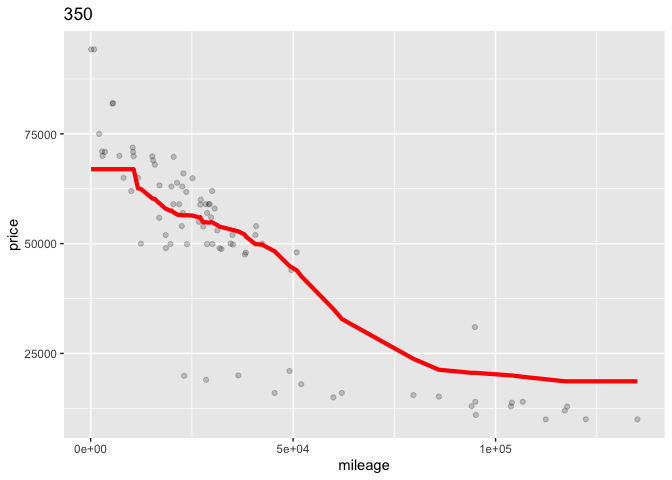
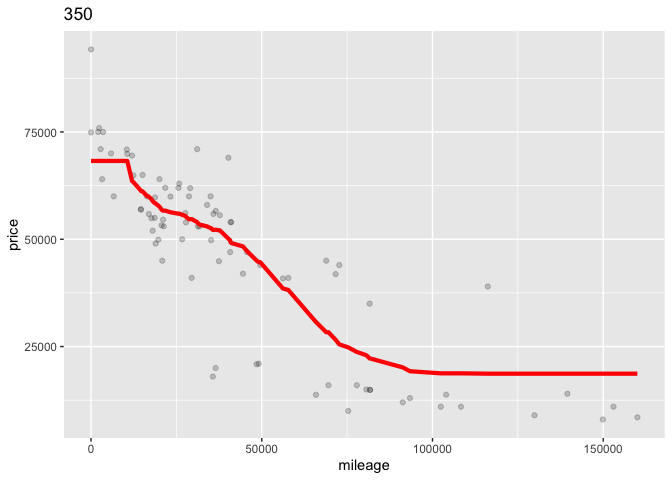
Add files via upload

diff --git a/Assignment-1.md b/Assignment-1.md
@@ -3,14 +3,10 @@
 calculate the average departure delay time over 2008 and make a plot to
 show that
 
-    plot(average_departure_delay_time_over_2008)
-
 ![](Assignment-1_files/figure-markdown_strict/plot%20average%20departure%20delay%20time%20over%202008-1.png)
 
 we can see the result that in most time, the delay time fluctulate
 between 0 and 20, and around Oct, the delay time is relatively small.
-
-    plot(delay_day)
 
 ![](Assignment-1_files/figure-markdown_strict/delay%20day-1.png)
 
@@ -21,8 +17,6 @@ and 06
 so we give a suggestion: try to catch earlier flight rather than later
 flight
 
-    plot(delay_affected_airline)
-
 ![](Assignment-1_files/figure-markdown_strict/delay%20time%20affected%20by%20airline-1.png)
 
 from that plot we can see that overall, US airline has the minimum delay
@@ -30,8 +24,6 @@ time, but we lack their data in some months, maybe they doesn’t arrange
 flightline during these months
 
 ## question 2
-
-    the_top_10_most_popular_songs
 
     ## # A tibble: 10 × 3
     ## # Groups:   performer [10]
@@ -55,8 +47,6 @@ partB
 we first excludes the years 1958 and 2021 then we can counts the number
 of times that a given song appears on the Top 100 in a given year
 
-    number_of_times_that_a_given_song
-
     ## # A tibble: 34,467 × 3
     ## # Groups:   year [62]
     ##     year song                                               count
@@ -76,8 +66,6 @@ of times that a given song appears on the Top 100 in a given year
 then we count the number of unique songs that appeared on the Top 100 in
 each year, irrespective of how many times it had appeared.
 
-    plot(unique_music)
-
 ![](Assignment-1_files/figure-markdown_strict/show%20musical%20diversity%20over%20the%20years-1.png)
 
 partC “ten-week hit” as a single song that appeared on the Billboard Top
@@ -86,27 +74,9 @@ ten-week hit, then filter people who have less than 30 songs
 
 we can get the plot like:
 
-    plot(ten_week_hit_musicians)
-
 ![](Assignment-1_files/figure-markdown_strict/ten_week_hit_musicians%20list-1.png)
 
 # question4
-
-    ## 載入需要的套件：lattice
-
-    ## 
-    ## 載入套件：'caret'
-
-    ## 下列物件被遮斷自 'package:purrr':
-    ## 
-    ##     lift
-
-    ## 
-    ## 載入套件：'foreach'
-
-    ## 下列物件被遮斷自 'package:purrr':
-    ## 
-    ##     accumulate, when
 
 ##1 Filter 350 & 65 AMG
 
@@ -114,9 +84,9 @@ we can get the plot like:
 
 ##3 run k nearest neighbors RMSEs
 
-    ## [1] 11281.95
+    ## [1] 10976.61
 
-    ## [1] 27136.79
+    ## [1] 40382.82
 
     ##    id trim subTrim condition isOneOwner mileage year  color displacement   fuel
     ## 1 282  350    unsp       CPO          f   21929 2012  Black        3.0 L Diesel
@@ -126,12 +96,12 @@ we can get the plot like:
     ## 5 289  350    unsp      Used          t   66689 2012  Black        3.0 L Diesel
     ## 6 290  350    unsp       CPO          f   19567 2012  Black        3.0 L Diesel
     ##   state region   soundSystem wheelType wheelSize featureCount price fold_id
-    ## 1    MA    New          unsp      unsp      unsp           82 55994       1
+    ## 1    MA    New          unsp      unsp      unsp           82 55994       3
     ## 2    IL    ENC       Premium     Alloy      unsp           72 60900       2
-    ## 3    VA    SoA          unsp      unsp      unsp            5 54995       5
-    ## 4    NH    New Harman Kardon      unsp      unsp           83 59988       1
-    ## 5    NJ    Mid Harman Kardon     Alloy      unsp           79 37995       4
-    ## 6    LA    WSC       Premium     Alloy      unsp           76 59977       1
+    ## 3    VA    SoA          unsp      unsp      unsp            5 54995       2
+    ## 4    NH    New Harman Kardon      unsp      unsp           83 59988       2
+    ## 5    NJ    Mid Harman Kardon     Alloy      unsp           79 37995       5
+    ## 6    LA    WSC       Premium     Alloy      unsp           76 59977       5
 
     ##     id   trim subTrim condition isOneOwner mileage year  color displacement
     ## 1 1060 65 AMG    unsp       New          f     106 2015  Black        6.0 L
@@ -148,30 +118,30 @@ we can get the plot like:
     ## 5 Gasoline    OH    ENC        unsp      unsp      unsp           92 102500
     ## 6 Gasoline    CA    Pac        unsp      unsp      unsp            1 230860
     ##   fold_id
-    ## 1       2
-    ## 2       1
-    ## 3       2
-    ## 4       2
-    ## 5       4
-    ## 6       4
+    ## 1       3
+    ## 2       2
+    ## 3       3
+    ## 4       1
+    ## 5       5
+    ## 6       3
 
     ## Warning: executing %dopar% sequentially: no parallel backend registered
 
     ##          k      err  std_err
-    ## result.1 1 13842.58 818.5473
-    ## result.2 2 11713.73 424.2141
-    ## result.3 3 10989.29 449.5173
-    ## result.4 4 10877.80 451.7470
-    ## result.5 5 10615.34 484.4478
-    ## result.6 6 10290.59 435.7895
+    ## result.1 1 14392.17 546.0786
+    ## result.2 2 12544.23 407.6068
+    ## result.3 3 11620.98 443.6365
+    ## result.4 4 11146.66 558.5040
+    ## result.5 5 10739.02 641.4782
+    ## result.6 6 10487.73 656.5116
 
     ##          k      err  std_err
-    ## result.1 1 28850.60 1784.698
-    ## result.2 2 24561.09 2122.123
-    ## result.3 3 23645.39 2027.609
-    ## result.4 4 22749.11 1677.285
-    ## result.5 5 22612.85 1344.745
-    ## result.6 6 21649.57 1345.786
+    ## result.1 1 30891.76 1548.871
+    ## result.2 2 25692.89 1030.810
+    ## result.3 3 22831.29 1818.625
+    ## result.4 4 22049.90 1530.119
+    ## result.5 5 22197.07 1412.166
+    ## result.6 6 21827.18 1173.434
 
 ##4 每個trim都畫出RMSE和K的關係，可看出optimal k（line or point）
 ![](Assignment-1_files/figure-markdown_strict/unnamed-chunk-6-1.png)![](Assignment-1_files/figure-markdown_strict/unnamed-chunk-6-2.png)
@@ -181,11 +151,11 @@ The optimal k for 350 is 15, and the optimal k for 65 AMG is 22
 
 ##6哪個trim有較大的optimal k? why?
 
-    ## [1] 11466.79
+    ## [1] 10467.84
 
 ![](Assignment-1_files/figure-markdown_strict/unnamed-chunk-8-1.png)
 
-    ## [1] 36967.38
+    ## [1] 38641.2
 
 ![](Assignment-1_files/figure-markdown_strict/unnamed-chunk-8-2.png)
 
